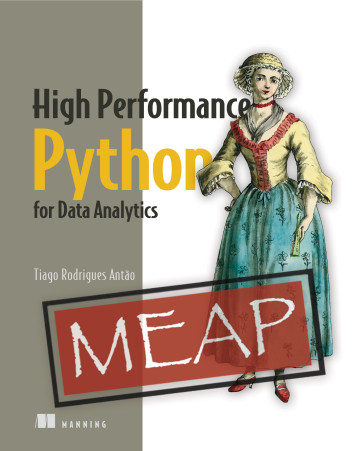
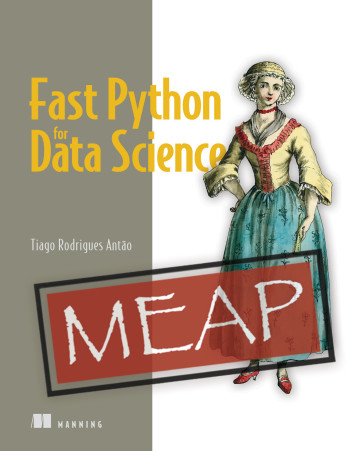
renamed book

diff --git a/README.md b/README.md
@@ -1,15 +1,15 @@
-# High Performance Python for Data Analytics
+# Fast Python for Data Science
 
-Welcome to the code repository for the book [_High Performance Python
+Welcome to the code repository for the book [_Fast Python
 for Data
-Analytics_](https://www.manning.com/books/high-performance-python-for-data-analytics)
+Science_](https://www.manning.com/books/fast-python-for-data-science)
 
 
 ![Book cover](cover.jpg)
 
 
 
-High Performance Python for Data Analytics is your guide to optimizing
+Fast Python for Data Science is your guide to optimizing
 every part of your Python-based data analysis process, from the pure
 Python code you write to managing the resources of modern hardware and
 GPUs. You'll learn to rewrite inefficient data structures, improve
